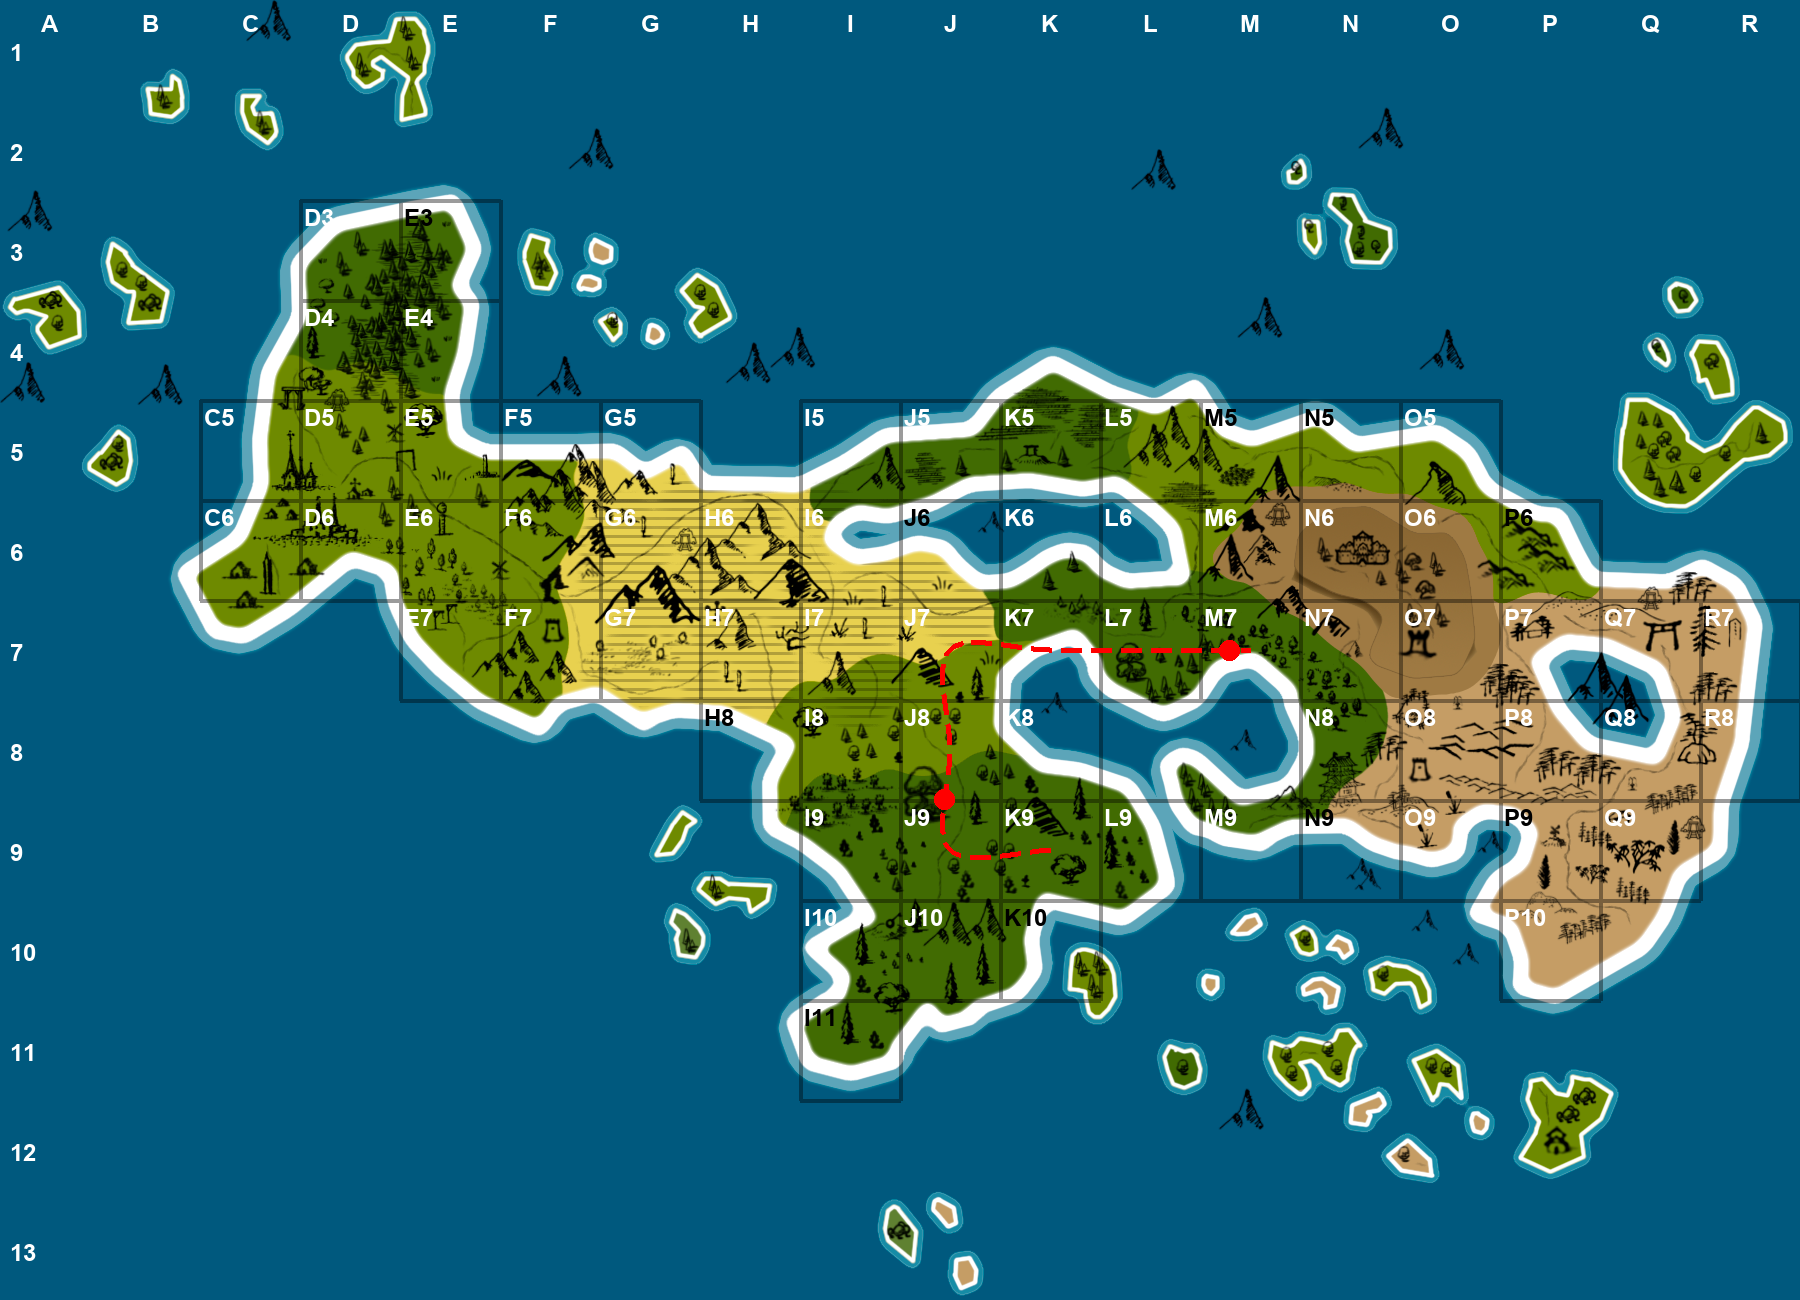
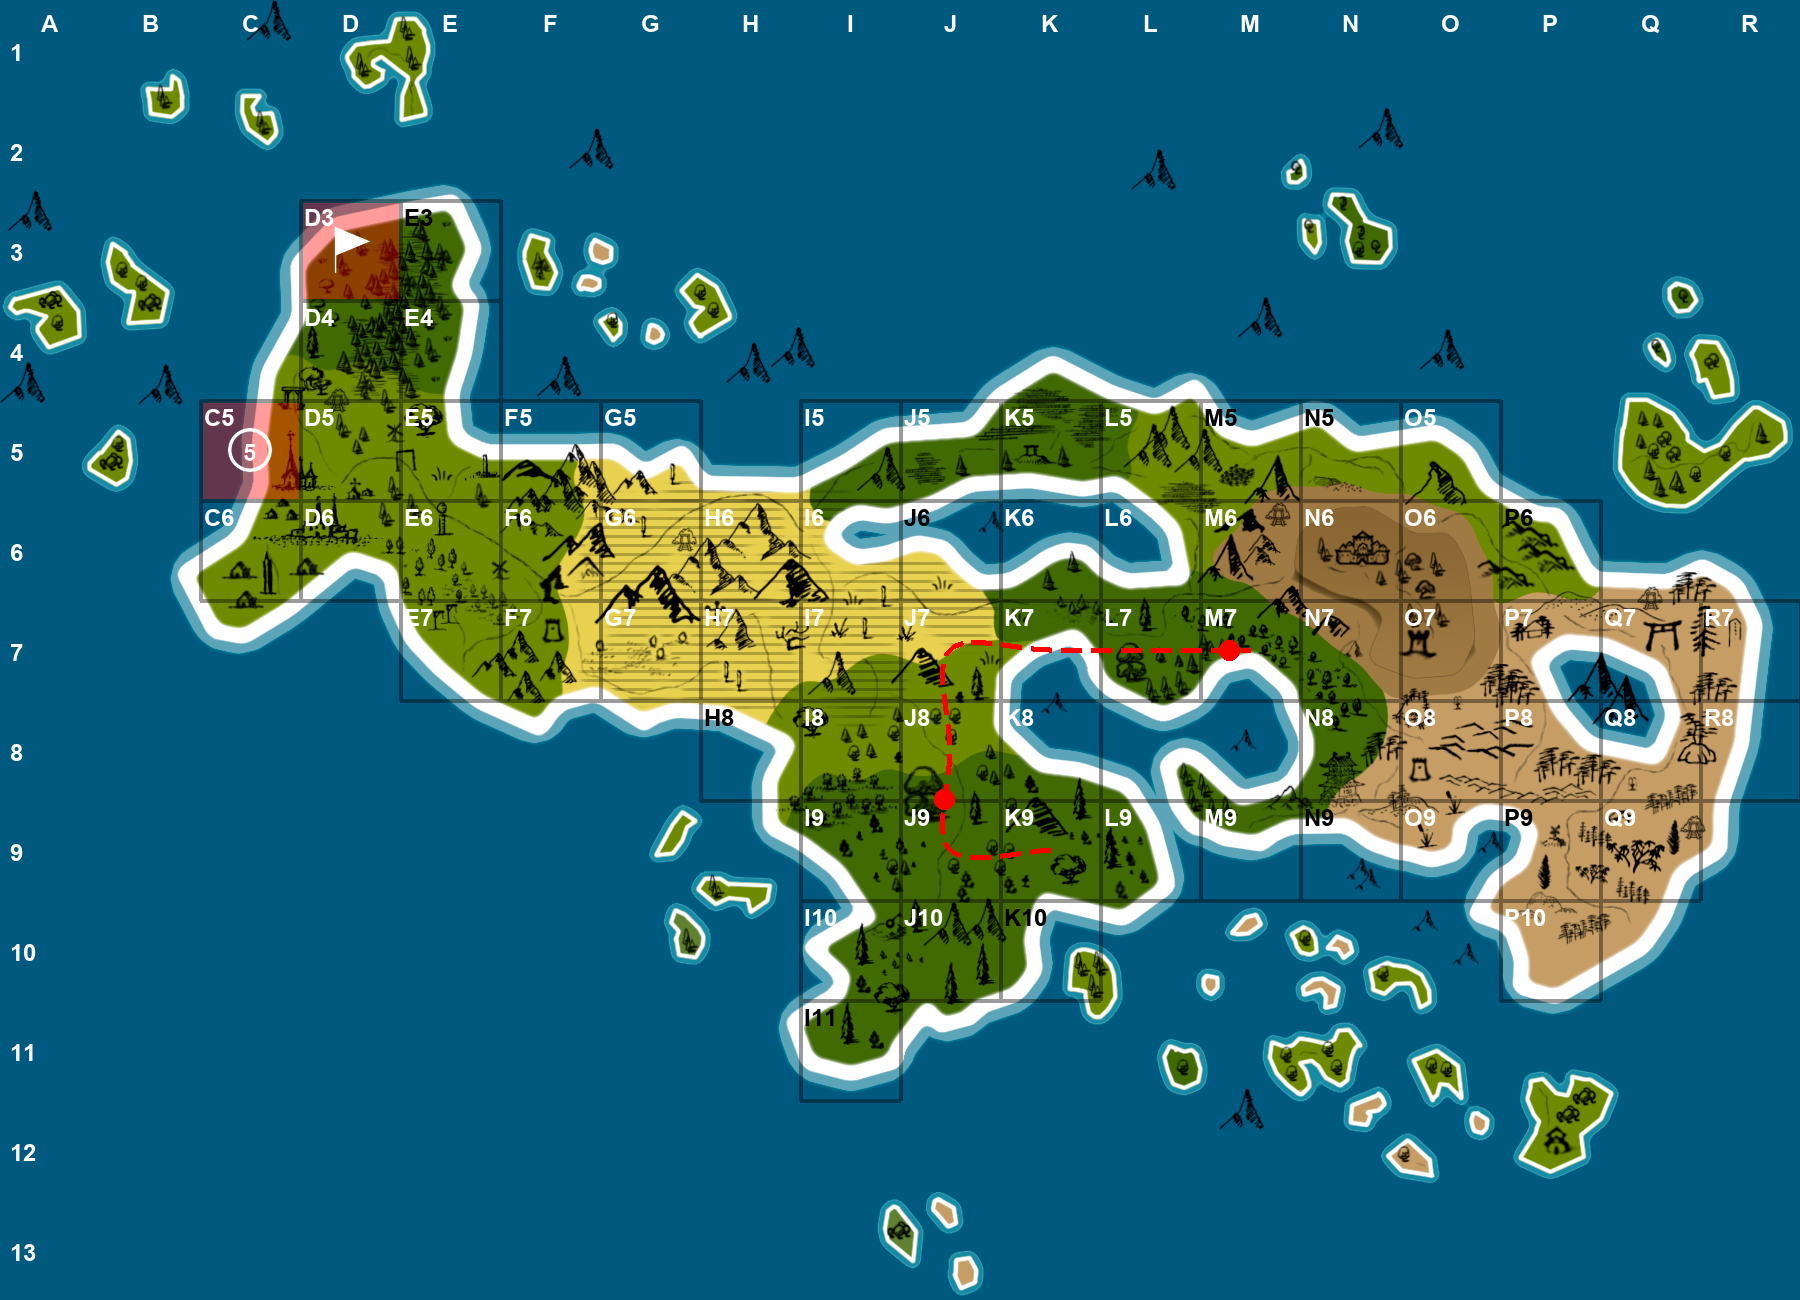
Добавлено отображение текста в ячейках и иконок на карте секторов

Changed region(s): [[0.0933, 0.3077, 0.1867, 0.4], [0.1556, 0.1538, 0.2489, 0.2462]]

diff --git a/tools/map-sectors/main.py b/tools/map-sectors/main.py
@@ -241,12 +241,23 @@ def draw_colored_cells_on_image(
 
     for cell_info in cells:
         x, y = cell_info["cell"]
-        color = cell_info["color"]
         left = x * cell_size + margin
         top = y * cell_size + margin
         right = (x + 1) * cell_size - margin
         bottom = (y + 1) * cell_size - margin
-        draw.rectangle([left+1, top+1, right, bottom], fill=color)
+
+        if 'color' in cell_info:
+            color = cell_info["color"]
+            draw.rectangle([left+1, top+1, right, bottom], fill=color)
+            
+        if 'text' in cell_info:
+            text = cell_info["text"]
+            # Используем стандартный шрифт PIL, если не передан
+            font = ImageFont.truetype("arialbd.ttf", 24)
+            text_bbox = draw.textbbox((0, 0), text, font=font)
+            text_x = left + (right - left - text_bbox[2]) // 2
+            text_y = top + (bottom - top - text_bbox[3]) // 2
+            draw.text((text_x, text_y), text, fill=(255, 255, 255, 255), font=font)
 
         # Если есть ключ icon, накладываем иконку из папки icons
         if "icon" in cell_info:
@@ -716,9 +727,10 @@ def main():
         result1_img,
         # output_filename="sector_map_colored_cells.png",
         cells=[
-            # {"cell": [3, 2], "color": (255, 0, 0, 100),
-            #  "icon": "flag"},
-            # {"cell": [2, 4], "color": (255, 0, 0, 100)},
+            {"cell": [3, 2], "color": (255, 0, 0, 100),
+             "icon": "flag"},
+            {"cell": [2, 4], "color": (255, 0, 0, 100)},
+            {"cell": [2, 4], "text": '5', "icon": 'circle'},
             # {"cell": [3, 4], "color": (255, 0, 0, 100),
             #  "icon": "flag"},
             # {"cell": [4, 4], "color": (255, 0, 0, 100),
